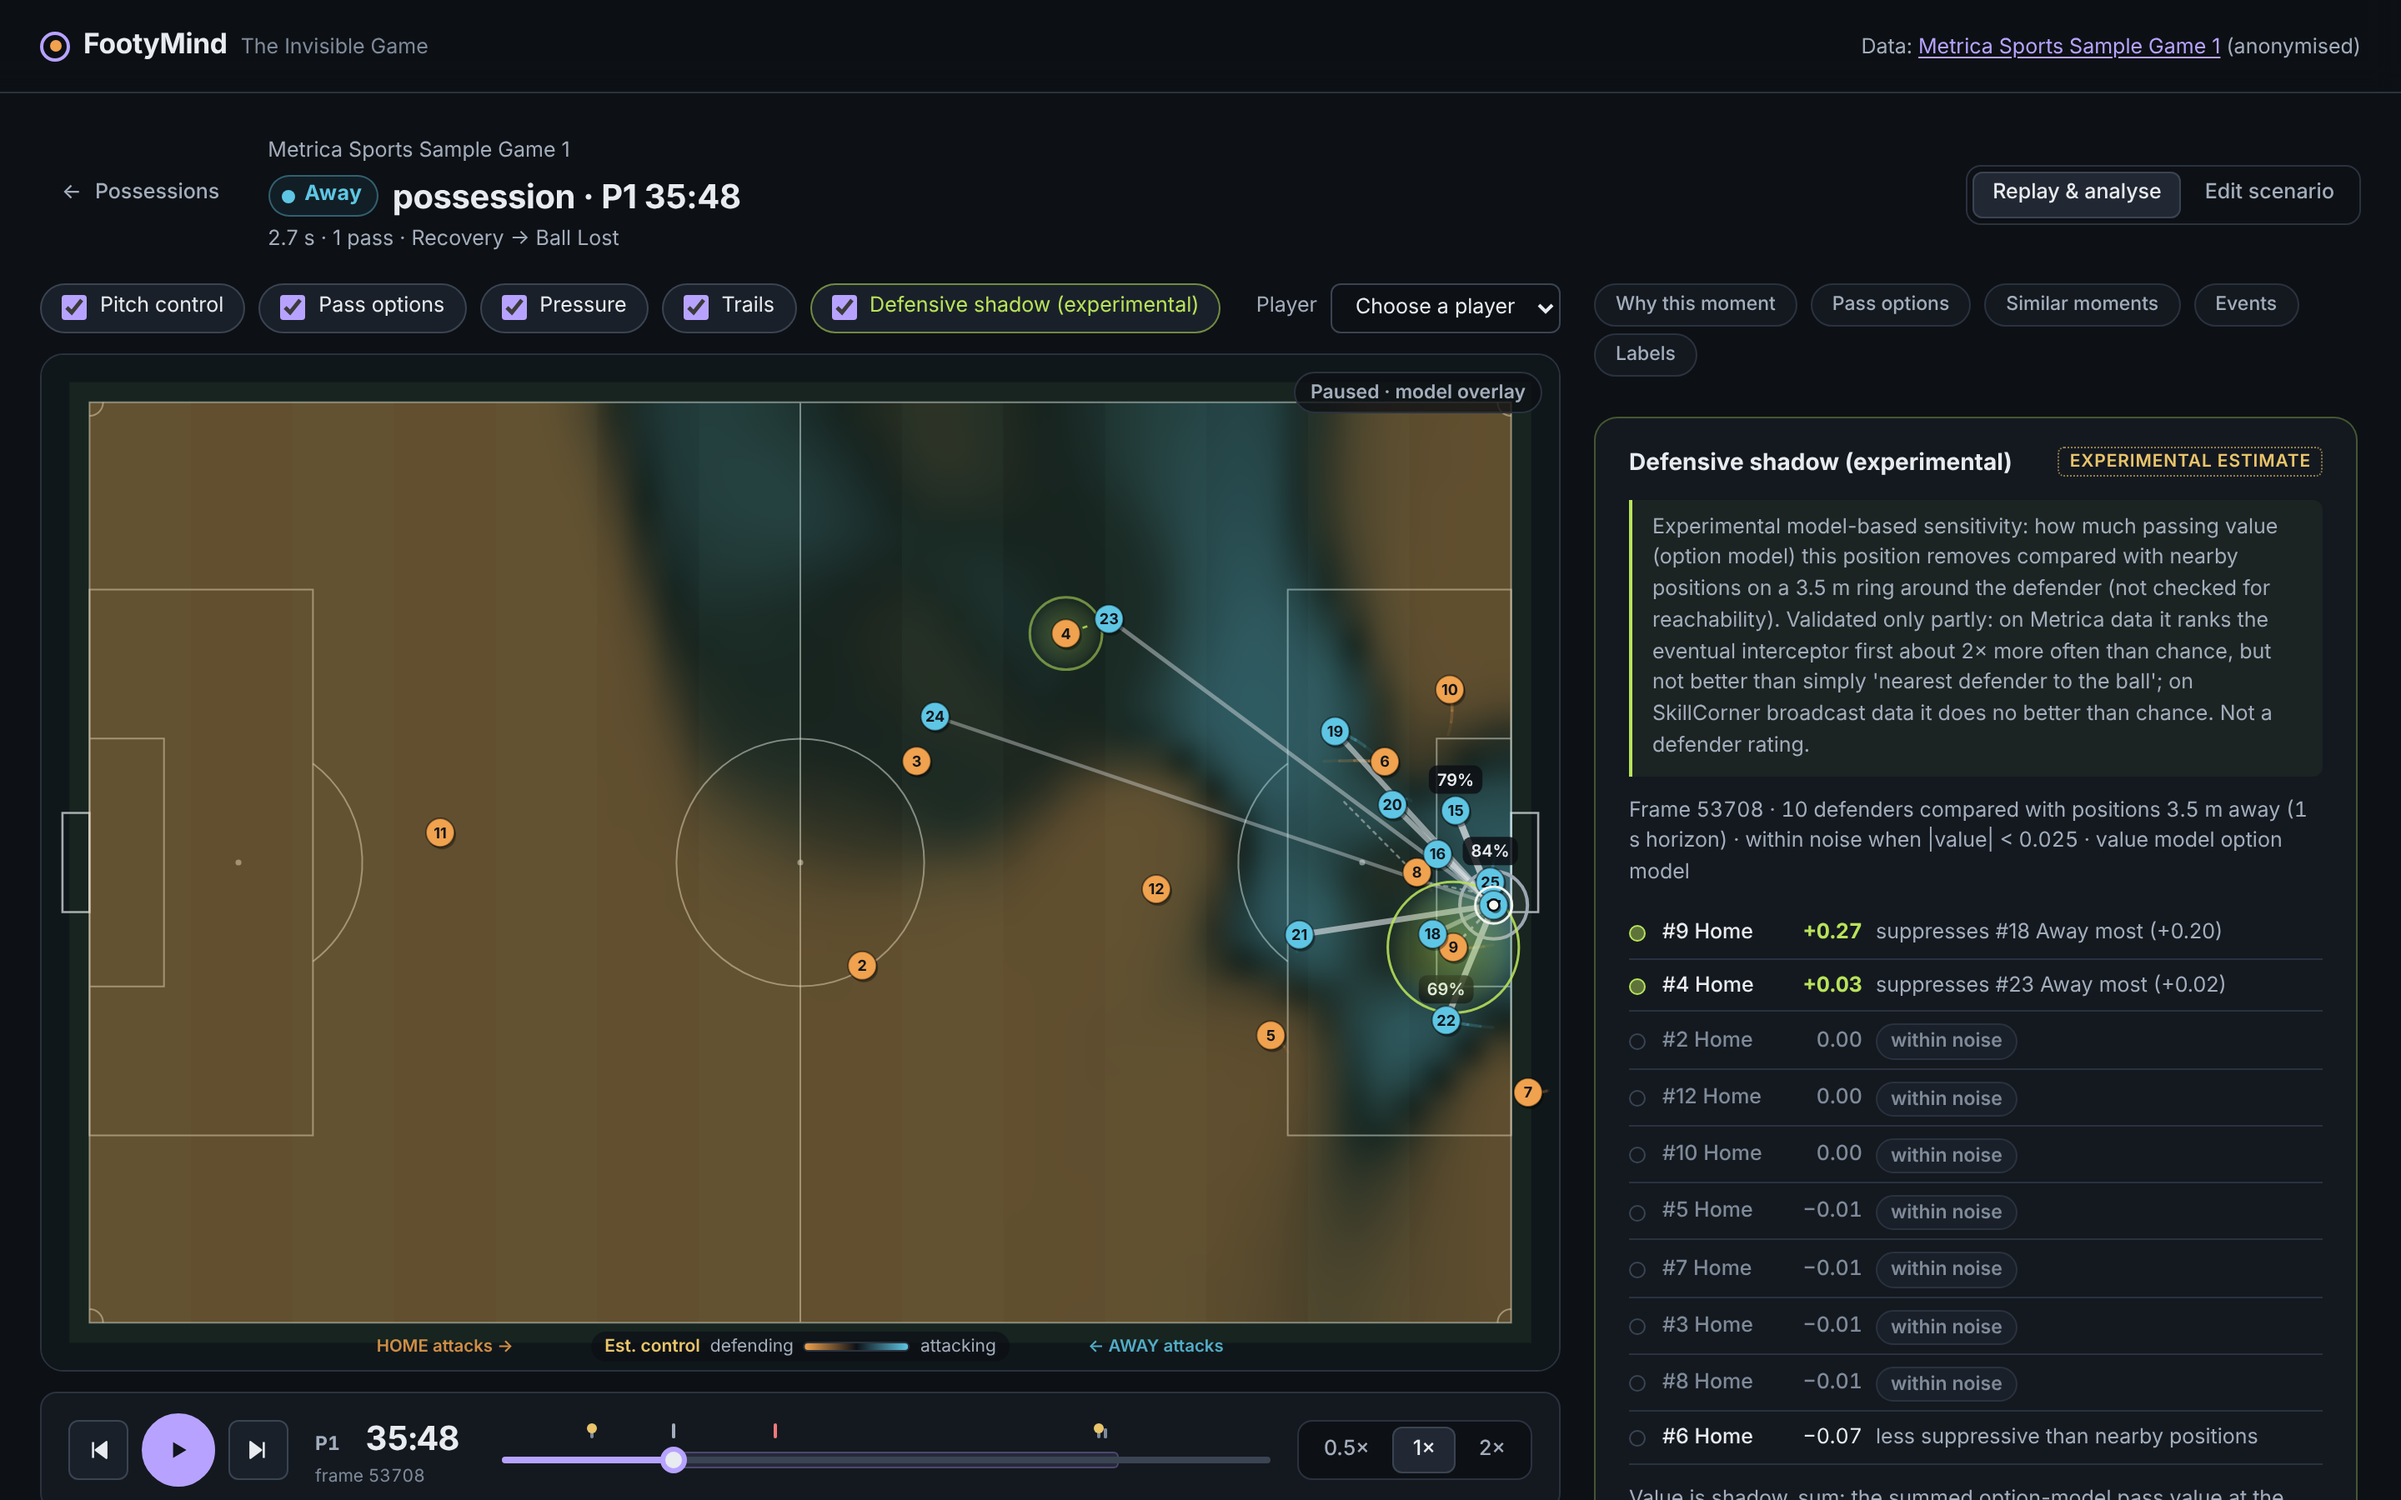
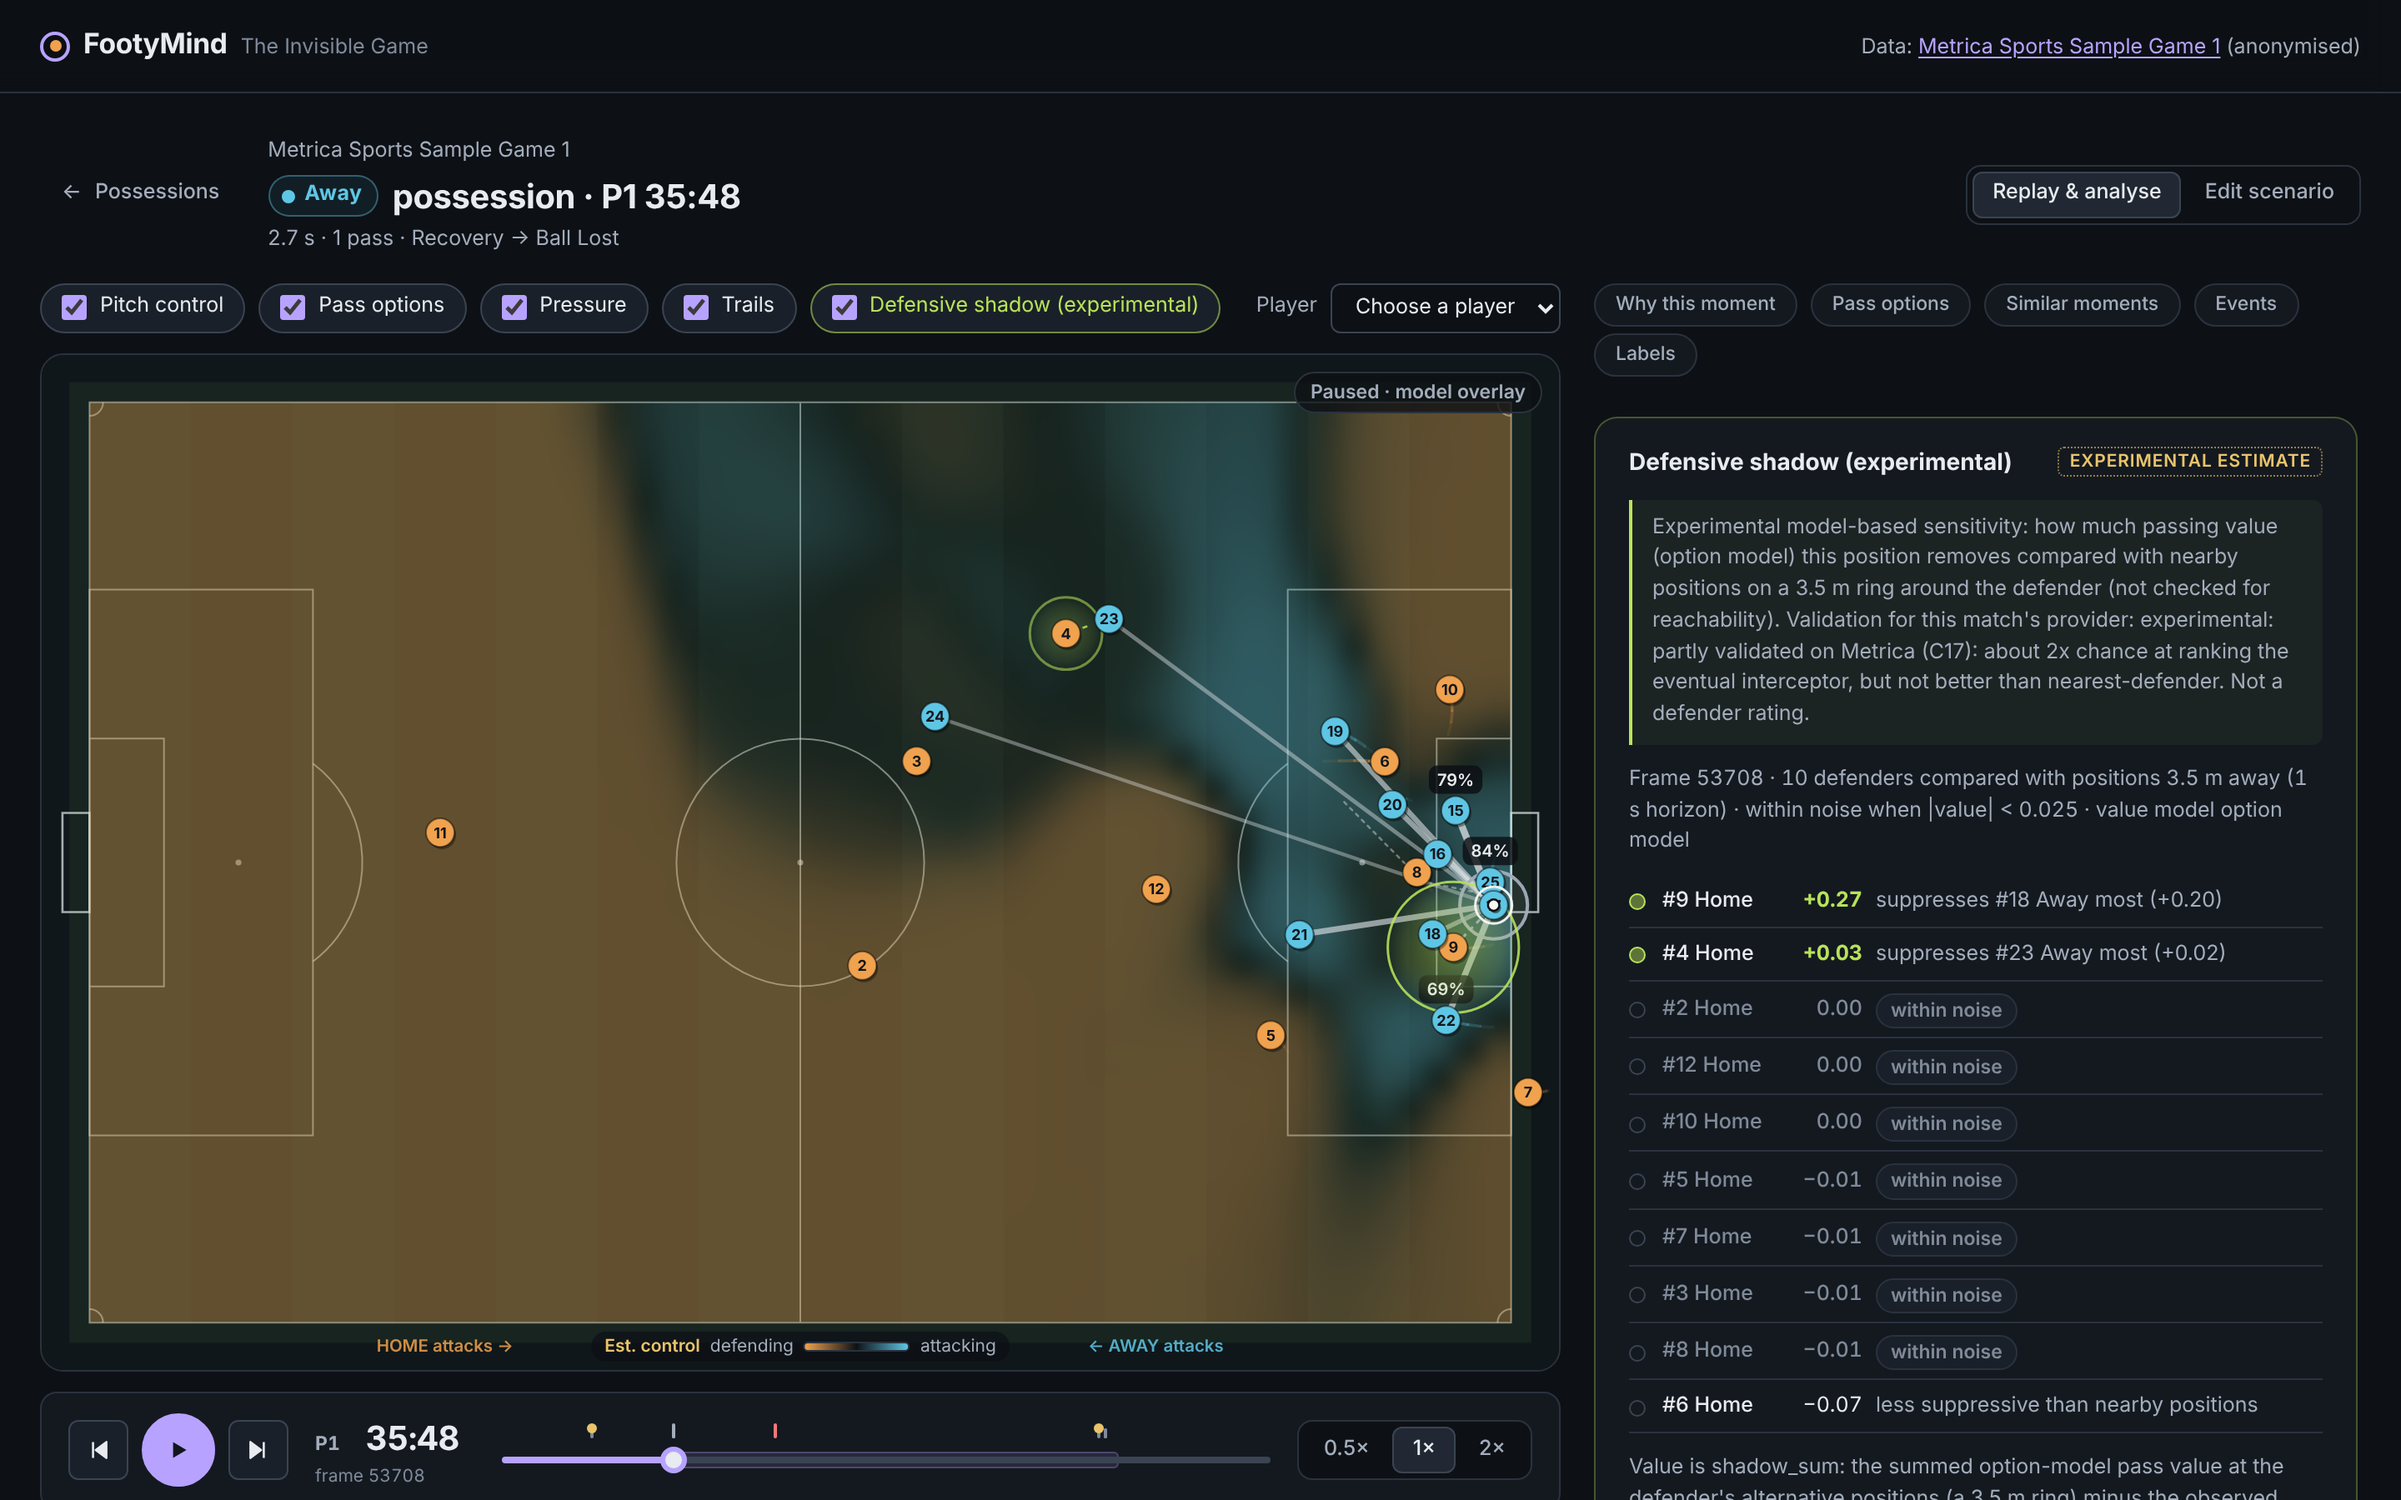
Defensive Shadow caveat shows the API's provider-specific validation status once served
Replaces the hard-coded two-provider sentence with DefensiveShadowOut.status
(C17 on Metrica, C29 on SkillCorner); the summary remains as the text before the
first answer. Refreshes the defensive-shadow screenshot.

Changed region(s): [[0.6562, 0.4044, 0.9688, 1.0]]

diff --git a/web/src/lib/shadow.ts b/web/src/lib/shadow.ts
@@ -13,8 +13,21 @@ export function ringText(altRadiusM: number | null | undefined): string {
   return typeof altRadiusM === "number" && Number.isFinite(altRadiusM) && altRadiusM > 0 ? `a ${altRadiusM} m ring` : "a ring";
 }
 
-/** The panel's caveat, with the ring radius the API sent (DefensiveShadowOut.alt_radius_m) once it has arrived. */
-export function shadowCaveat(altRadiusM: number | null | undefined): string {
+/**
+ * The panel's caveat, with the ring radius the API sent (DefensiveShadowOut.alt_radius_m) once it has arrived.
+ * Once the API has answered for a frame, the validation sentence is the API's own status for that match's
+ * provider (DefensiveShadowOut.status, with its ledger claim); before that, the summary for both providers.
+ */
+export function shadowCaveat(
+  altRadiusM: number | null | undefined,
+  served?: { status?: string | null; validation_claim?: string | null } | null,
+): string {
+  const status = served?.status?.trim();
+  if (status) {
+    const id = served?.validation_claim;
+    const claim = id && !status.includes(id) ? ` (claims ledger ${id})` : "";
+    return `Experimental model-based sensitivity: how much passing value (option model) this position removes compared with nearby positions on ${ringText(altRadiusM)} around the defender (not checked for reachability). Validation for this match's provider${claim}: ${status}`;
+  }
   return `Experimental model-based sensitivity: how much passing value (option model) this position removes compared with nearby positions on ${ringText(altRadiusM)} around the defender (not checked for reachability). Validated only partly: on Metrica data it ranks the eventual interceptor first about 2× more often than chance, but not better than simply 'nearest defender to the ball'; on SkillCorner broadcast data it does no better than chance. Not a defender rating.`;
 }
 

diff --git a/web/src/lib/shadow.test.ts b/web/src/lib/shadow.test.ts
@@ -99,6 +99,15 @@ describe("shadow ring wording follows the API's alt_radius_m", () => {
     expect(shadowCaveat(4)).toContain("nearby positions on a 4 m ring around the defender");
     expect(shadowCaveat(null)).toContain("nearby positions on a ring around the defender");
     expect(shadowCaveat(null)).not.toMatch(/\d m ring/);
+    // SYNTHETIC status text: once served, the provider's own status replaces the two-provider summary
+    const served = { status: "experimental: synthetic status. Not a defender rating.", validation_claim: "C99" };
+    expect(shadowCaveat(4, served)).toContain("Validation for this match's provider (claims ledger C99): experimental: synthetic status");
+    expect(shadowCaveat(4, served)).not.toContain("SkillCorner");
+    // no second reference when the status already cites its claim
+    expect(shadowCaveat(4, { status: "experimental: synthetic (C99).", validation_claim: "C99" })).toContain(
+      "Validation for this match's provider: experimental: synthetic (C99).",
+    );
+    expect(shadowCaveat(4, { status: "  " })).toContain("on SkillCorner broadcast data");
   });
 });
 

diff --git a/web/e2e/flow.spec.ts b/web/e2e/flow.spec.ts
@@ -139,6 +139,9 @@ test("defensive shadow layer ranks the suppressive defender at the featured fram
   const panel = page.getByTestId("shadow-panel");
   await expect(panel).toHaveAttribute("data-frame", "53708", { timeout: 30_000 });
   await expect(page.getByTestId("shadow-caveat")).toContainText("Not a defender rating.");
+  // the served, provider-specific status (Metrica: claim C17), not the two-provider summary
+  await expect(page.getByTestId("shadow-caveat")).toContainText("Validation for this match's provider");
+  await expect(page.getByTestId("shadow-caveat")).toContainText("(C17)");
   const rows = page.getByTestId("shadow-row");
   const first = rows.first();
   await expect(first).toContainText("#9 Home");

diff --git a/web/src/components/ShadowPanel.tsx b/web/src/components/ShadowPanel.tsx
@@ -41,7 +41,7 @@ export function ShadowPanel({ playing, status, shadow, unavailable, error, onRet
         <ProvBadge prov="estimated">experimental estimate</ProvBadge>
       </div>
       <p className="small shadow-caveat" data-testid="shadow-caveat">
-        {shadowCaveat(shadow?.alt_radius_m)}
+        {shadowCaveat(shadow?.alt_radius_m, shadow)}
       </p>
 
       {playing ? (
